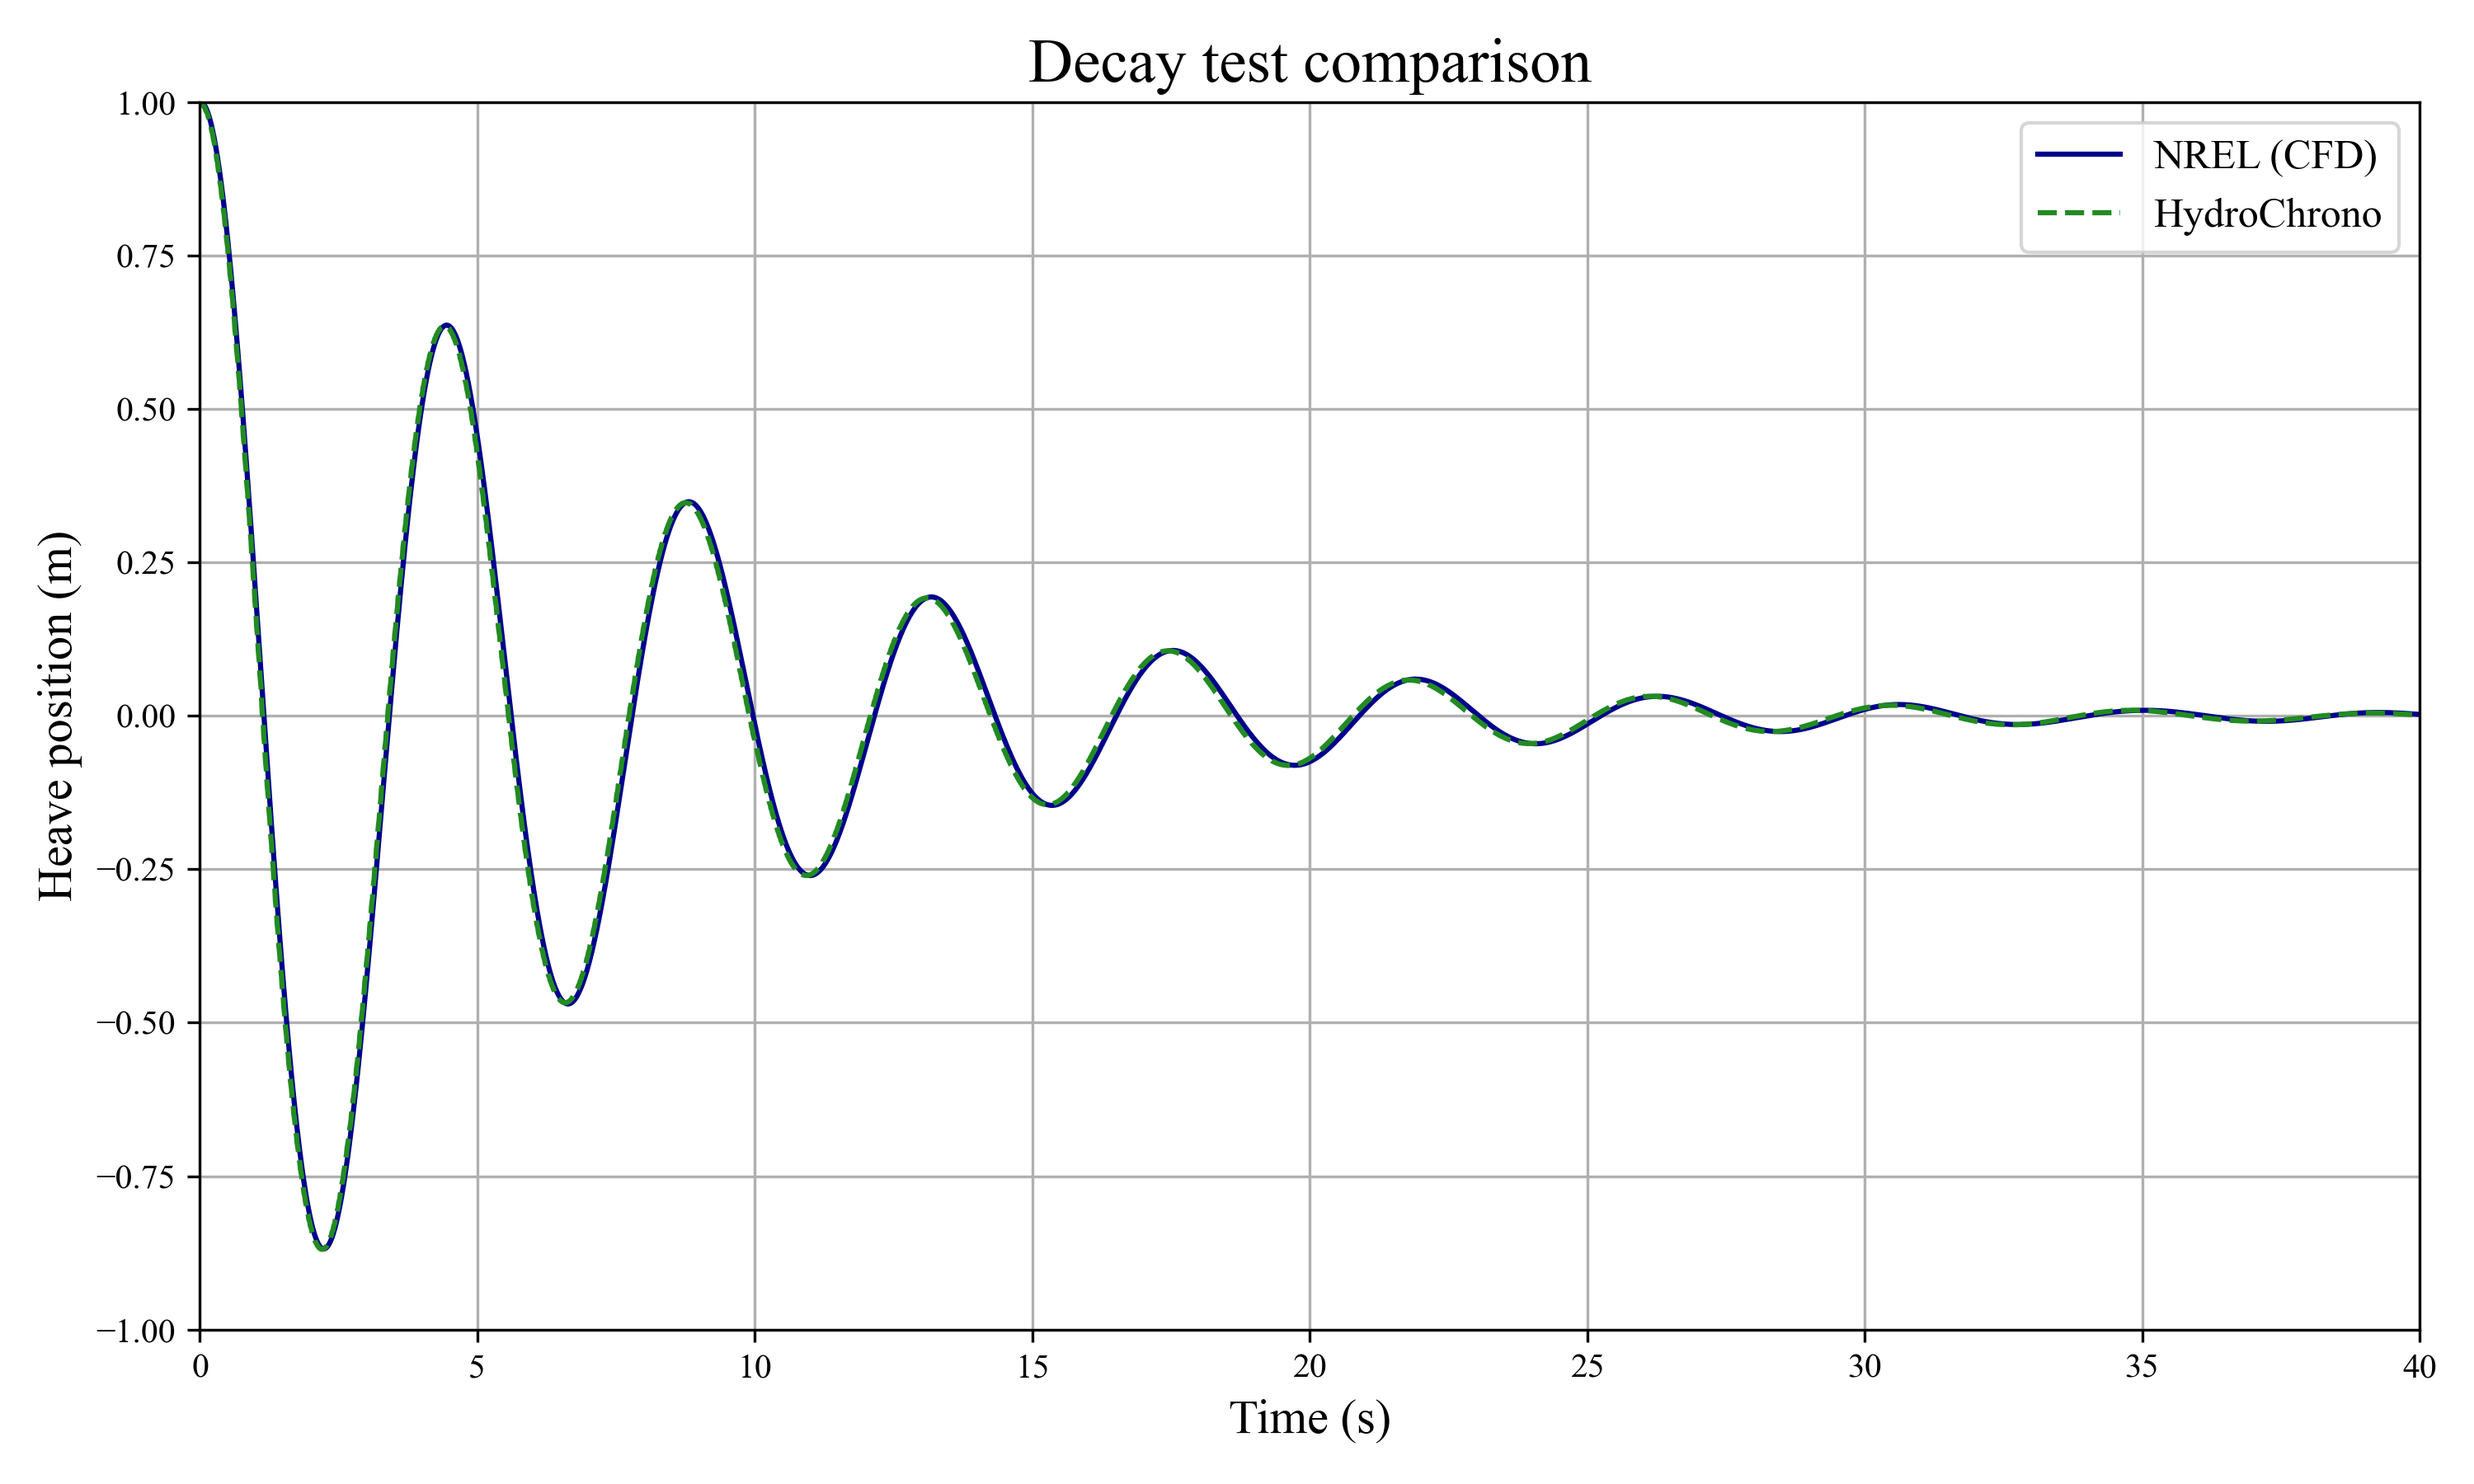
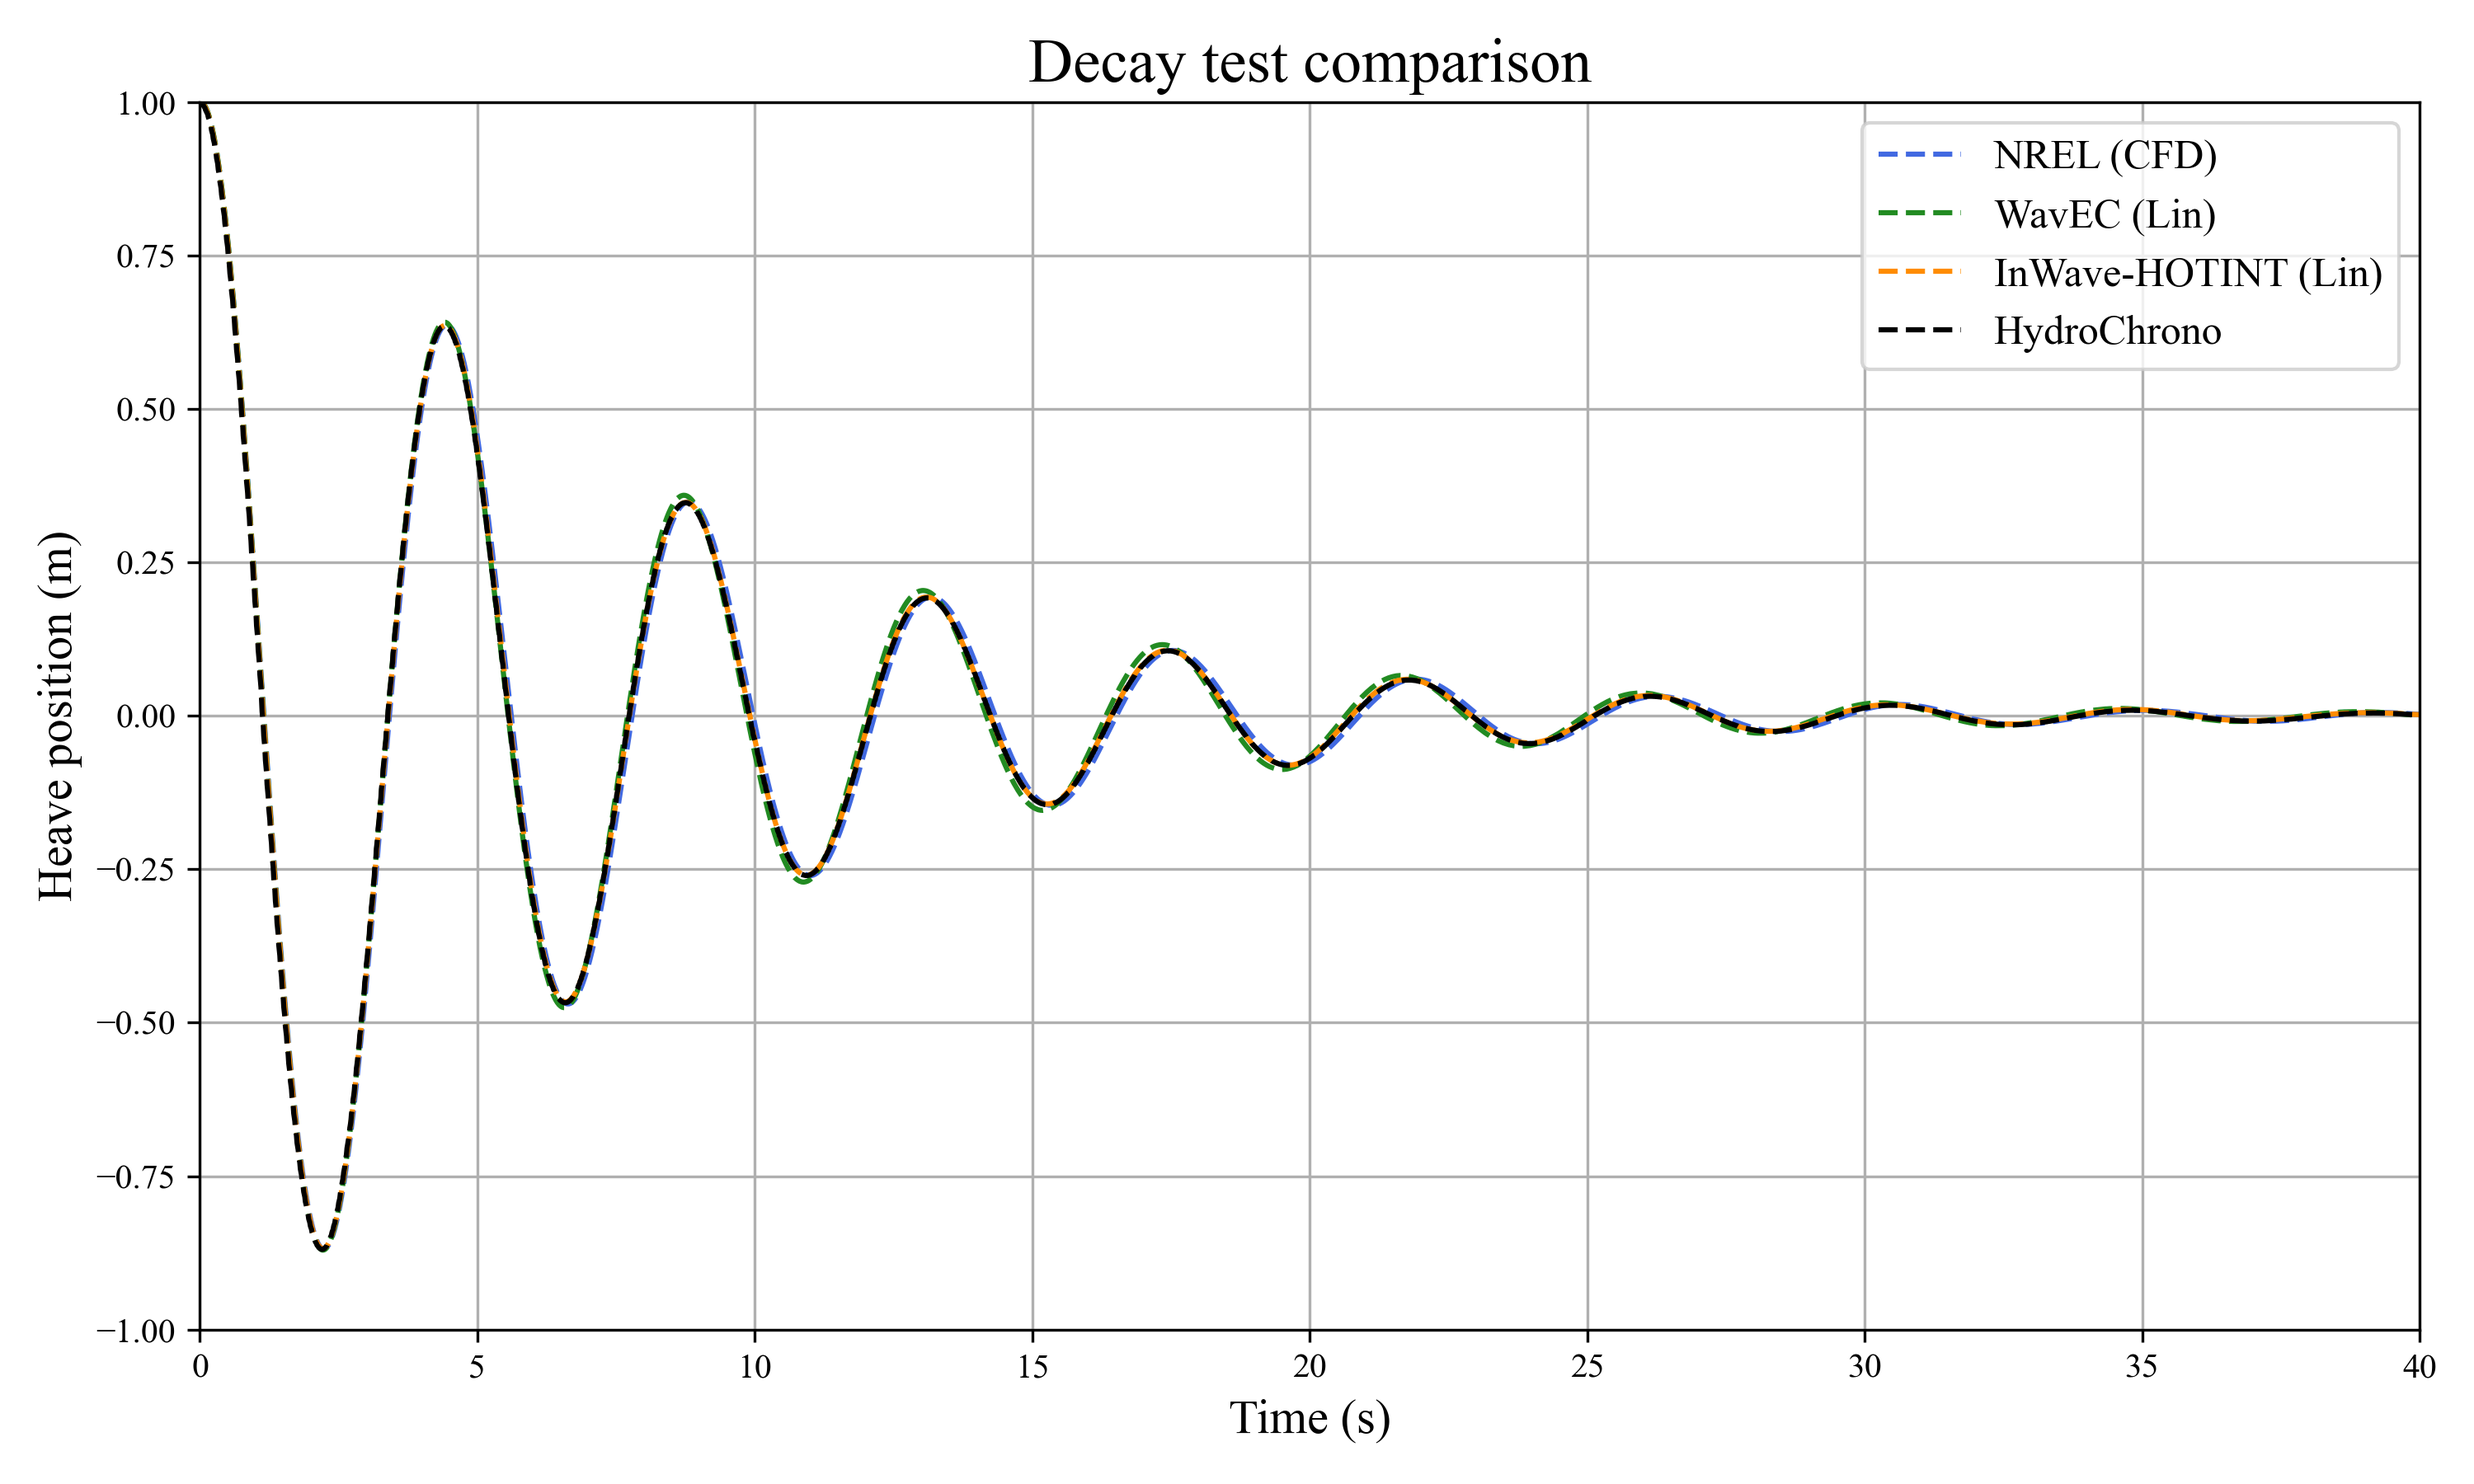
additional sphere decay comparisons

diff --git a/demos/sphere/postprocessing/plot_sphere_decay.py b/demos/sphere/postprocessing/plot_sphere_decay.py
@@ -17,8 +17,10 @@ refData = pd.read_excel(refFile, 'sphere_decay_comparison')
 
 # Create figure & plot the data
 fig, ax = plt.subplots(figsize=(10, 6))  # Set the figure size for a larger, more visible plot
-ax.plot(refData['Time (s)'], refData['NREL (CFD)'], '-', label='NREL (CFD)', color='darkblue')
-ax.plot(decayTestData[:,0], decayTestData[:,1]+2, '--', label='HydroChrono', color='forestgreen')
+ax.plot(refData['Time (s)'], refData['NREL (CFD)'], '--', label='NREL (CFD)', color='royalblue')
+ax.plot(refData['Time (s)'], refData['WavEC (Lin)'], '--', label='WavEC (Lin)', color='forestgreen')
+ax.plot(refData['Time (s)'], refData['InWave+H (Lin)'], '--', label='InWave-HOTINT (Lin)', color='darkorange')
+ax.plot(decayTestData[:,0], decayTestData[:,1]+2, '--', label='HydroChrono', color='black', linewidth=1.5)
 
 # Set x and y axis limits
 ax.set_xlim([0, 40])
